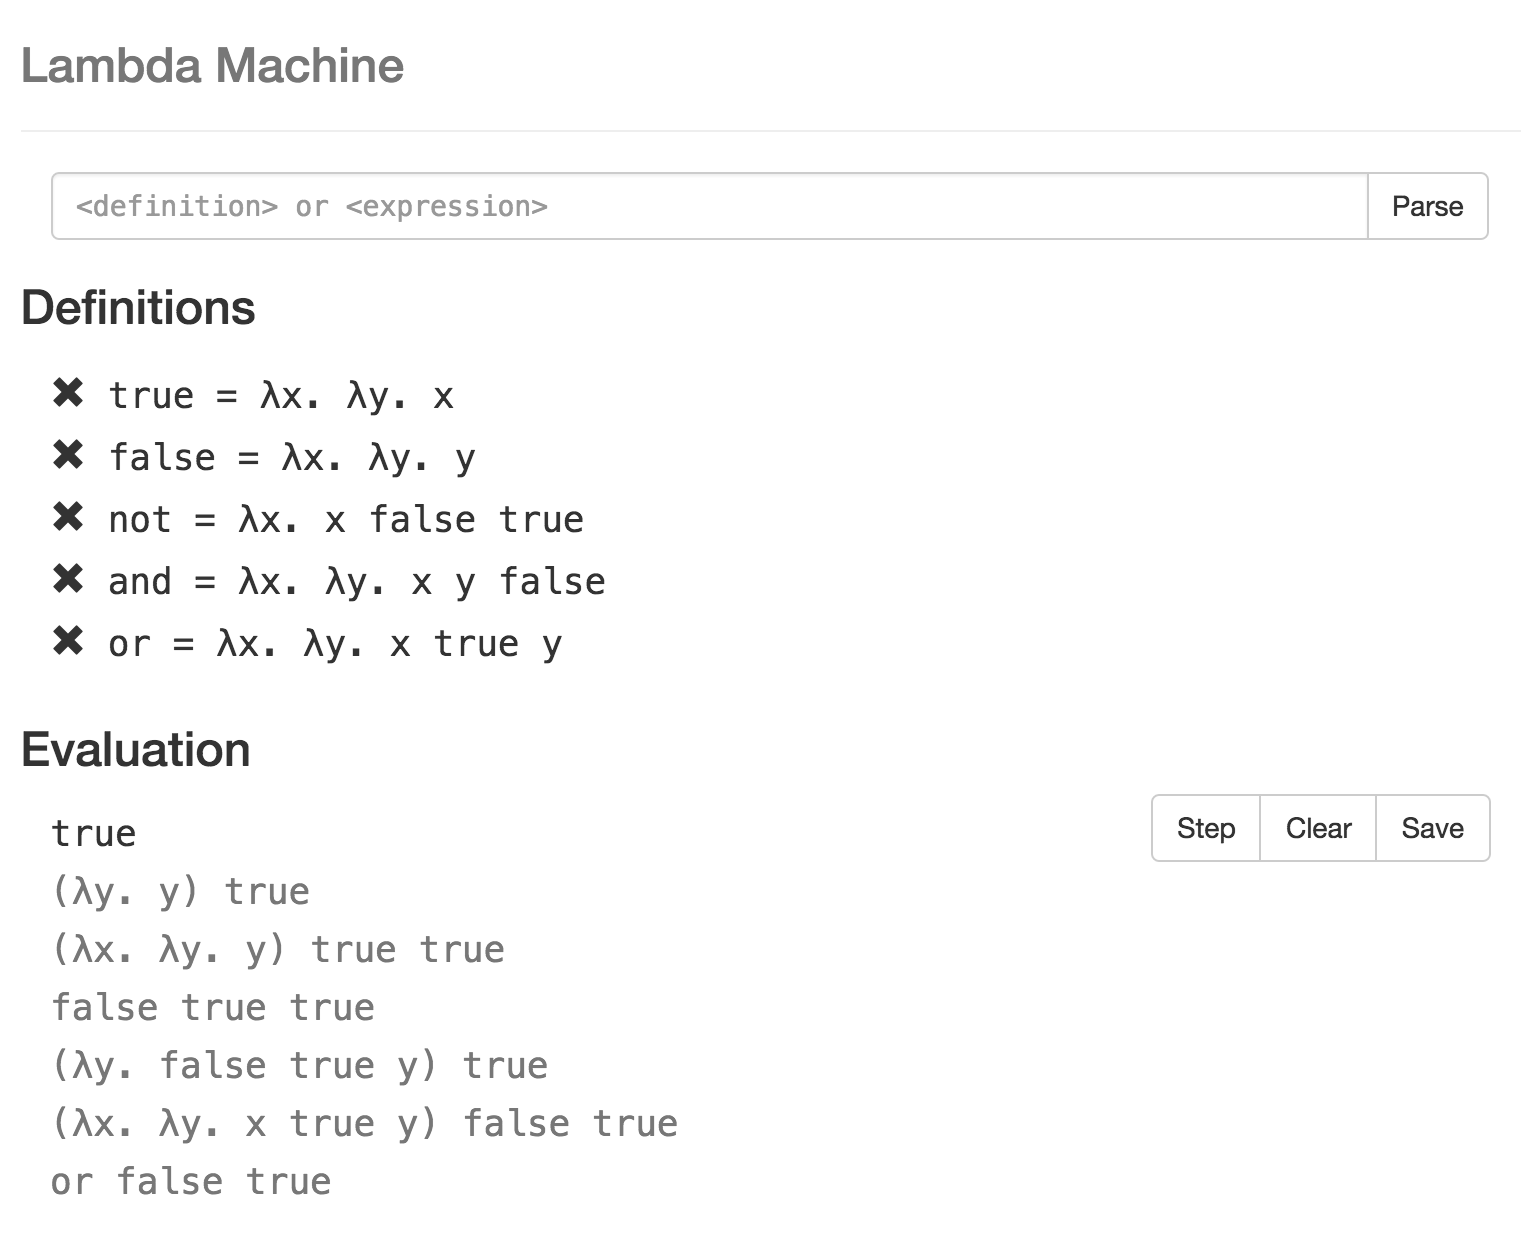
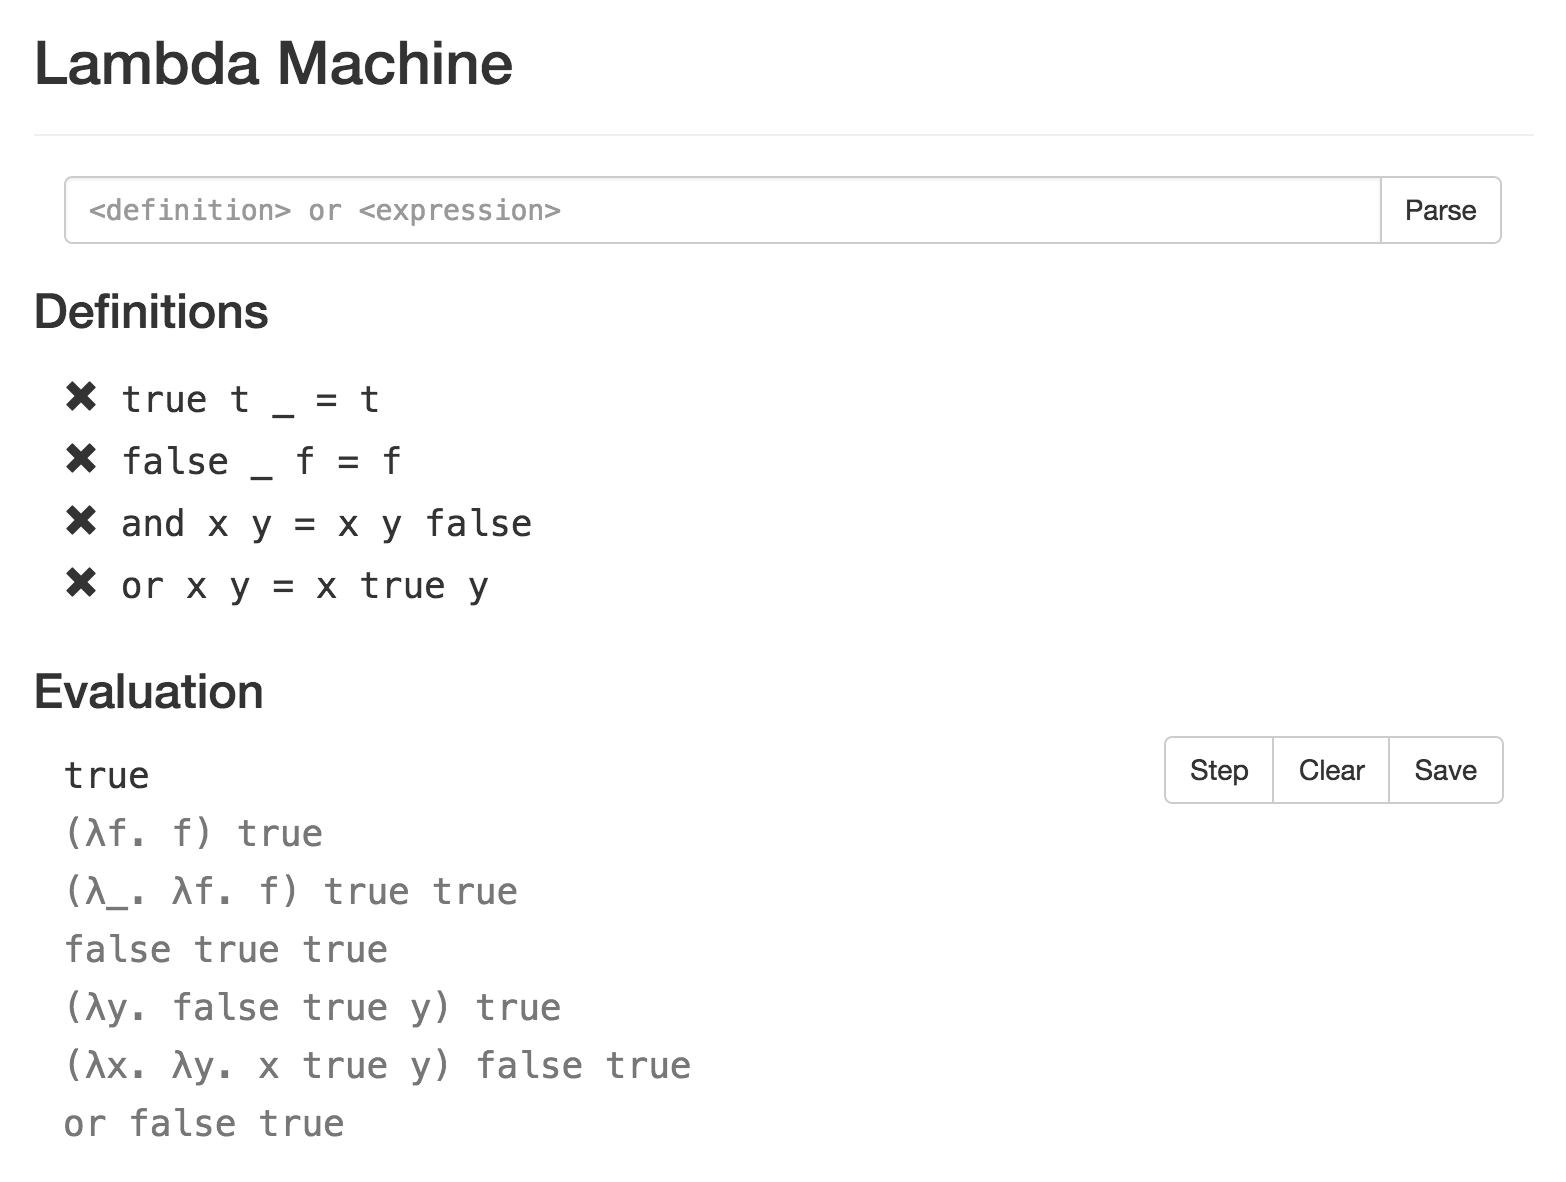
Update README and screenshot

diff --git a/README.md b/README.md
@@ -10,7 +10,7 @@ Yep. Here's a grammar:
 
 ```plaintext
 <definition>
-    ::= <name> = <expression>                    -- Definition
+    ::= <name> [<name> ...] = <expression>       -- Definition
 
 <expression>
     ::= \ <name> . <expression>                  -- Lambda
